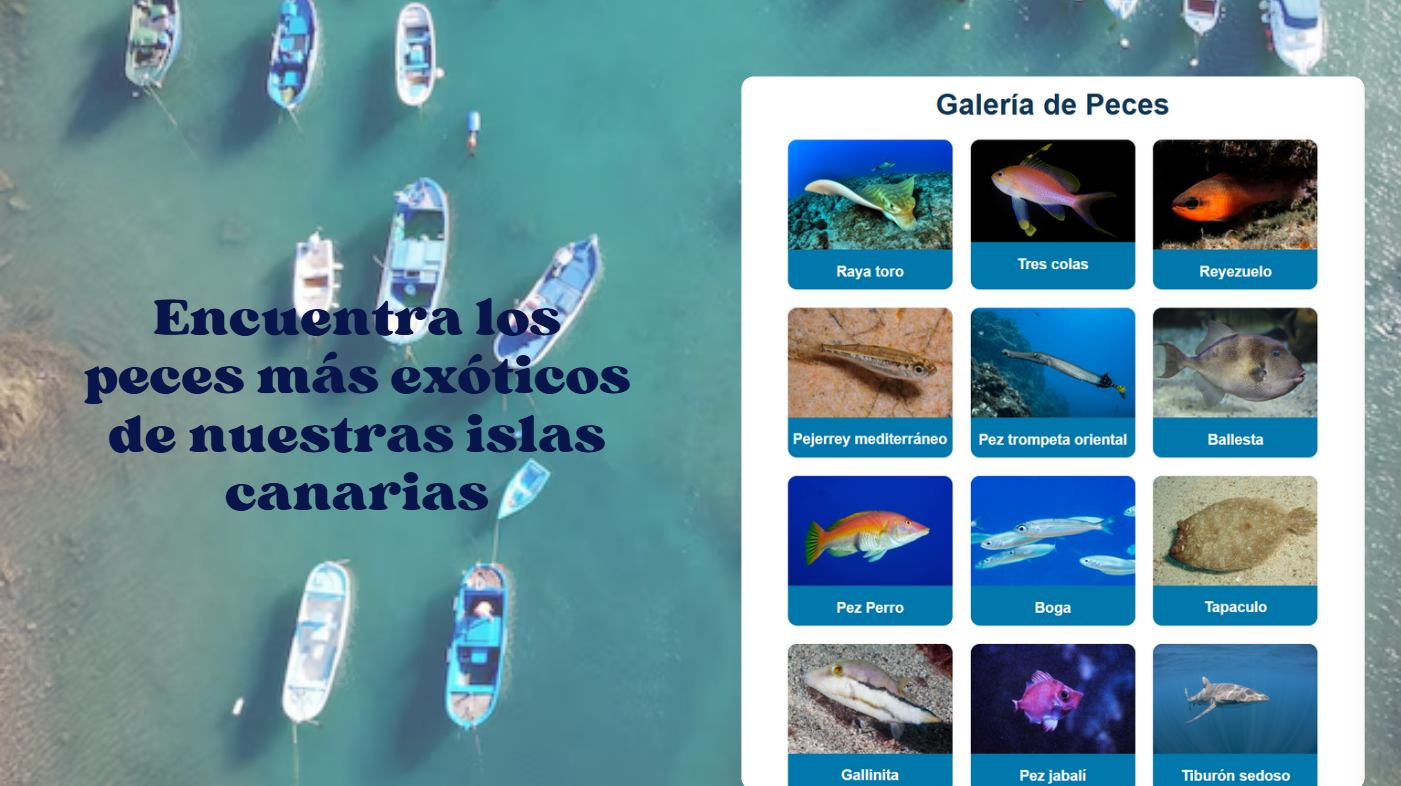
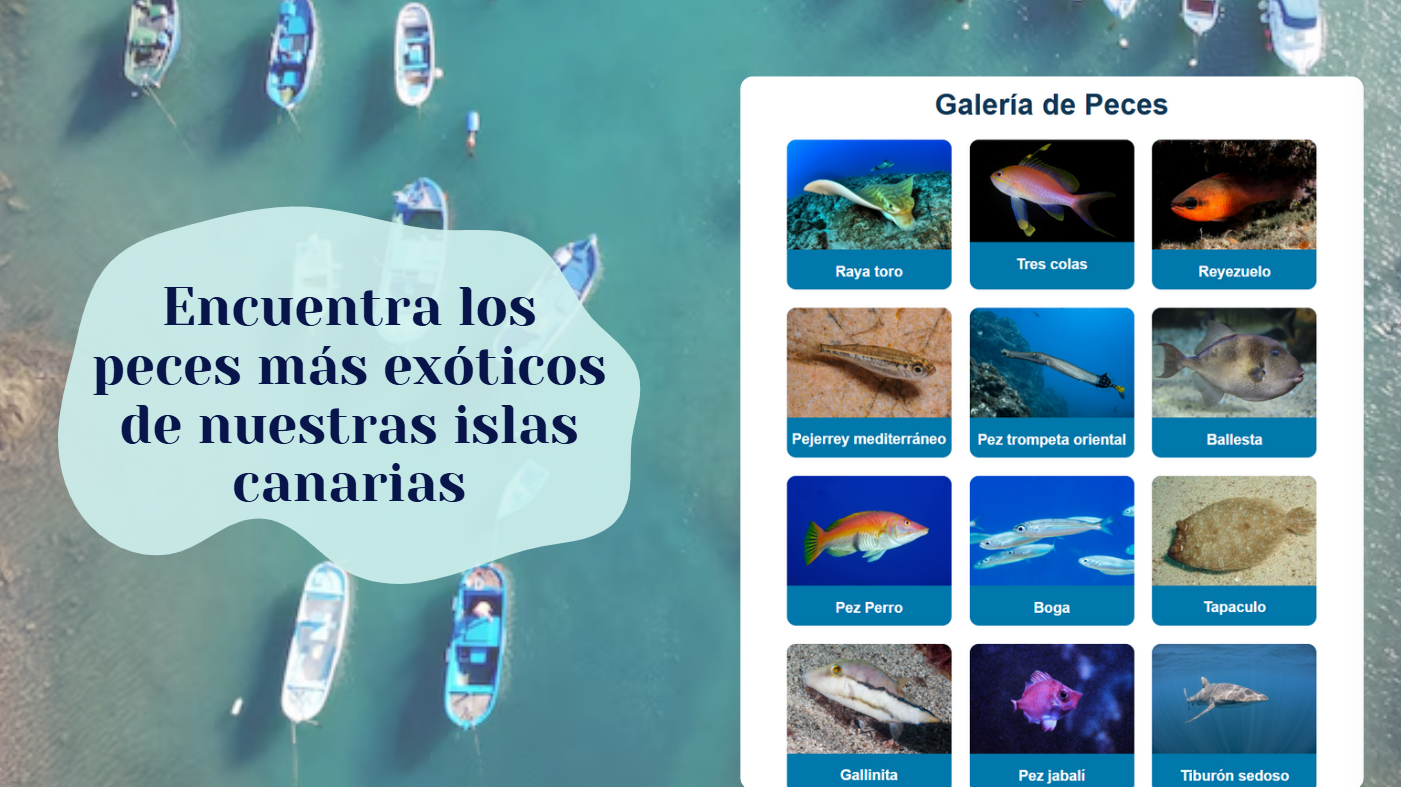
Update carrusel of mainPage

diff --git a/src/HTML/index.html b/src/HTML/index.html
@@ -128,22 +128,24 @@
 
 <div id="carrusel-container">
     <div class="carrusel">
-        <div class="back">
-            <img id="back" src="../Videos/carrusel/img_1.png" alt="back" loading="lazy">
-        </div>
+        <div class="carrusel-image">
+            <div class="back">
+                <img id="back" src="../Videos/carrusel/img_1.png" alt="back" loading="lazy">
+            </div>
 
-        <div class="widgetContainer">
-            <div id="widget">
-                <img id="image" src="../Videos/playa-widget.png" alt="imagen 1" loading="lazy">
+            <div class="widgetContainer">
+                <div id="widget">
+                    <img id="image" src="../Videos/playa-widget.png" alt="imagen 1" loading="lazy">
+                </div>
+            </div>
+
+            <div class="forward" id="forward">
+                <img src="../Videos/carrusel/img.png" alt="forward" loading="lazy">
             </div>
         </div>
 
-        <div class="forward" id="forward">
-            <img src="../Videos/carrusel/img.png" alt="forward" loading="lazy">
-        </div>
+        <div id="puntos"></div>
     </div>
-
-    <div class="puntos" id="puntos"></div>
 </div>
 
 
@@ -212,8 +214,9 @@
     /*carrusel*/
     let widgetContainer = [
         { url: "../Videos/playa-widget.png" },
+        { url: "../Videos/filtro-widget.png" },
+        { url: "../Videos/oleaje-widget.png" },
         { url: "../Videos/pescados-widget.png" },
-        { url: "../Videos/imagenplaya-ps.jpg" }
     ];
 
     let imagenPrincipal = document.getElementById('image');
@@ -244,7 +247,7 @@
     function actualizarPuntos() {
         puntos.innerHTML = "";
         for (let i = 0; i < widgetContainer.length; i++) {
-            puntos.innerHTML += `<p class="${i === actual ? 'bold' : ''}">.</p>`;
+            puntos.innerHTML += `<p class="${i === actual ? 'bold' : ''}">•</p>`;
         }
     }
 

diff --git a/src/CSS/funcionalities.css b/src/CSS/funcionalities.css
@@ -1,12 +1,8 @@
 #carrusel-container{
-
-    /* Contenedor */
     display: flex;
     flex-direction: column;
     align-items: center;
     justify-content: center;
-    padding-top: 70px;
-    overflow: hidden;
 }
 
 .carrusel{
@@ -15,58 +11,67 @@
     justify-content: center;
     overflow: hidden;
     width: 100%;
+    height: 40rem;
+    background-image: url('../Videos/background-carrusel.png');
+    background-size: cover;
+    flex-direction: column;
+}
+
+.carrusel-image {
+    width: 100%;
+    height: 100%;
+    display: flex;
+    justify-content: center;
+    align-items: center;
+}
+
+.widgetContainer {
+    display: flex;
+    justify-content: center;
+    align-items: center;
+    height: 100%;
 }
 
 .images-container {
     display: flex;
     flex-direction: column;
     align-items: center;
-    justify-content: end;
+    justify-content: center;
 }
 
 #widget {
     display: flex;
     justify-content: center;
     align-items: center;
-    height: 50rem;
 }
 
 #image {
     width: 100%;
     border-radius: 10px;
-    max-width: 70%;
+    max-height: 30em;
     box-shadow: 0px 1px 80px 5px #4c5763;
 }
 
-.points {
+#puntos {
     display: flex;
     justify-content: center;
-    gap: 5px;
+    align-items: center;
+    gap: 1em;
 }
-.points p {
-    font-size: 2rem;
-    margin: 0;
-}
-.bold {
+
+#puntos p {
     font-weight: bold;
     color: black;
+    font-size: 1.5rem;
+    margin: 0;
+    cursor: pointer;
+    transition: all 0.3s ease;
+    line-height: 1;
 }
 
-
-#carrusel-container{
-    position: relative;
-    width: 100%;
-    height: 600px;
-    background-image: url('../Videos/background-carrusel.png');
-    background-size: cover;
-    margin-top: 10em;
-}
-
-
-#carrusel-container {
-    position: relative;
-    margin-top: 10em;
-    z-index: 2;
+#puntos p.bold {
+    font-size: 2.5rem;
+    transform: translateY(-5px);
 }
 
 .slide {

diff --git a/src/HTML/MoreInfoPage.html b/src/HTML/MoreInfoPage.html
@@ -24,9 +24,6 @@
                 <li><a onclick="loadDefaultPage()">Tiempo atmosférico</a></li>
                 <li><a onclick="loadTemplate('../HTML-components/dynamicSwell.html', document.getElementById('body-container'), initializeSwellPage)">Oleaje</a></li>
                 <li><a onclick="loadTemplate('../HTML-components/wave.html', document.getElementById('body-container'), initWavePage)">Marea</a></li>
-                <li><a onclick="loadDefaulPage()">Tiempo atmosférico</a></li>
-                <li><a onclick="loadTemplate('../HTML-components/swell.html', document.getElementById('body-container'), () => initSwellPage(coordLAT, coordLON))">Oleaje</a></li>
-                <li><a onclick="loadTemplate('../HTML-components/wave.html', document.getElementById('body-container'), () => initWavePage(coordLAT, coordLON))">Marea</a></li>
                 <li id="facilities-item"><a onclick="loadTemplate('../HTML-components/services.html', document.getElementById('body-container'), function () {initBeach();})">Instalaciones y prestaciones</a></li>
                 <li><a onclick="loadTemplate('../HTML-components/FishInfo.html', document.getElementById('body-container'), initFishGallery)">Galería de peces</a></li>
                 <li><a>Descargar tabla pdf</a></li>

diff --git a/src/JS/mainWeather.js b/src/JS/mainWeather.js
@@ -112,7 +112,7 @@ function showWeatherData(json) {
     function fillTable(day) {
         let hour = 0;
         if (day === 0) {
-            hour = 14;
+            hour = currentHour;
         }
 
         const dayCeroInfo = json.forecast.forecastday[day];
